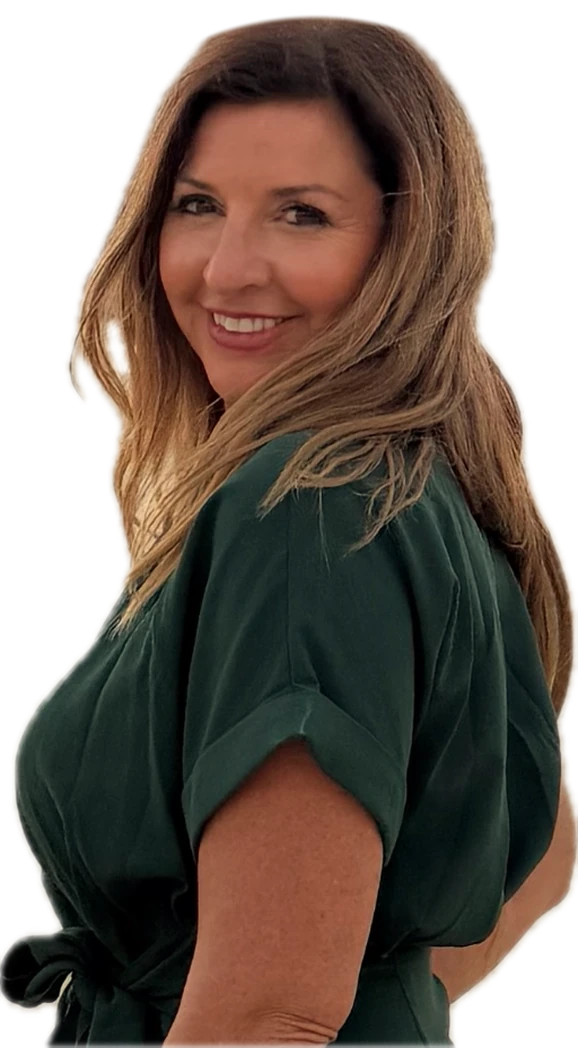
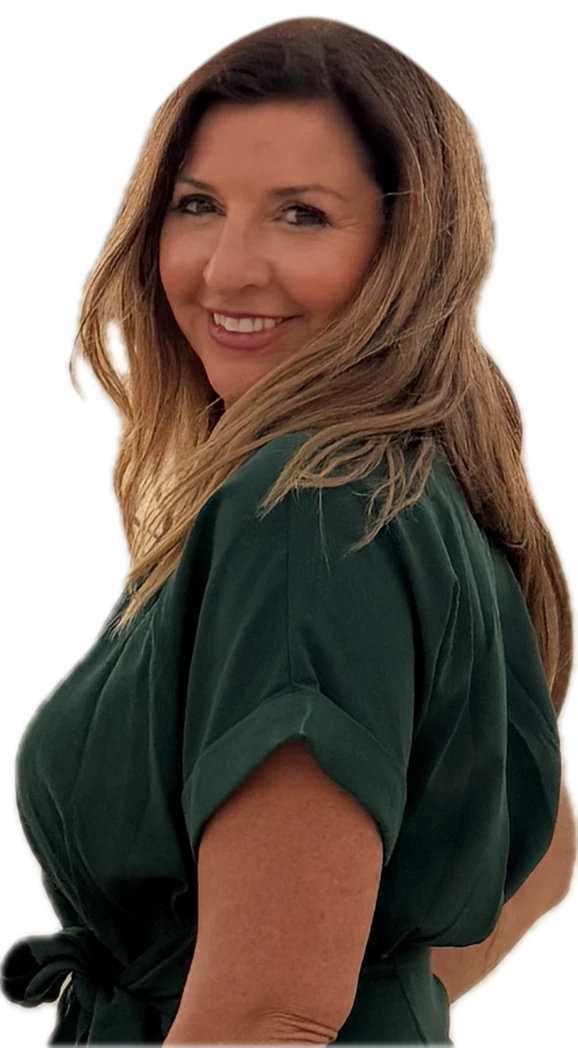
Preview: Sarah's crown keeps its natural rounded shape, just shorter
Claude-Session: https://claude.ai/code/session_0143Lbhr4xqUWpHZcBapTSp9

Changed region(s): [[0.5606, 0.0, 0.8097, 0.1221], [0.2803, 0.0, 0.4983, 0.0916]]

diff --git a/preview/index.html b/preview/index.html
@@ -9,8 +9,8 @@
 <link rel="preconnect" href="https://fonts.googleapis.com">
 <link rel="preconnect" href="https://fonts.gstatic.com" crossorigin>
 <link href="https://fonts.googleapis.com/css2?family=Cinzel:wght@400..700&family=Cormorant+Garamond:ital,wght@0,400;0,500;1,400;1,500&display=swap" rel="stylesheet">
-<link rel="preload" as="image" href="media/hall-hero-mobile.jpg?v=13" media="(max-aspect-ratio: 9/10)">
-<link rel="preload" as="image" href="media/sarah-cutout-mobile.webp?v=13" media="(max-aspect-ratio: 9/10)">
+<link rel="preload" as="image" href="media/hall-hero-mobile.jpg?v=14" media="(max-aspect-ratio: 9/10)">
+<link rel="preload" as="image" href="media/sarah-cutout-mobile.webp?v=14" media="(max-aspect-ratio: 9/10)">
 <!--
   The Hall of Records: private preview for Sarah Breskman Cosme. Built by LightStorm; not public.
 
@@ -327,7 +327,7 @@
 //  - every full-bleed layer shares one framing; the page never scrolls; media carry a cache-buster
 (() => {
   "use strict";
-  const MV = "?v=13";   // bump whenever a video or still is replaced, or phones keep the old file
+  const MV = "?v=14";   // bump whenever a video or still is replaced, or phones keep the old file
   const SETS = {
     mobile:  { w: 1080, h: 1920, still: "media/hall-hero-mobile.jpg", loop: "media/hall-hero-mobile.mp4",
                her: "media/sarah-cutout-mobile.webp", cut: { x: 374, y: 872, w: 578, h: 1048 },
